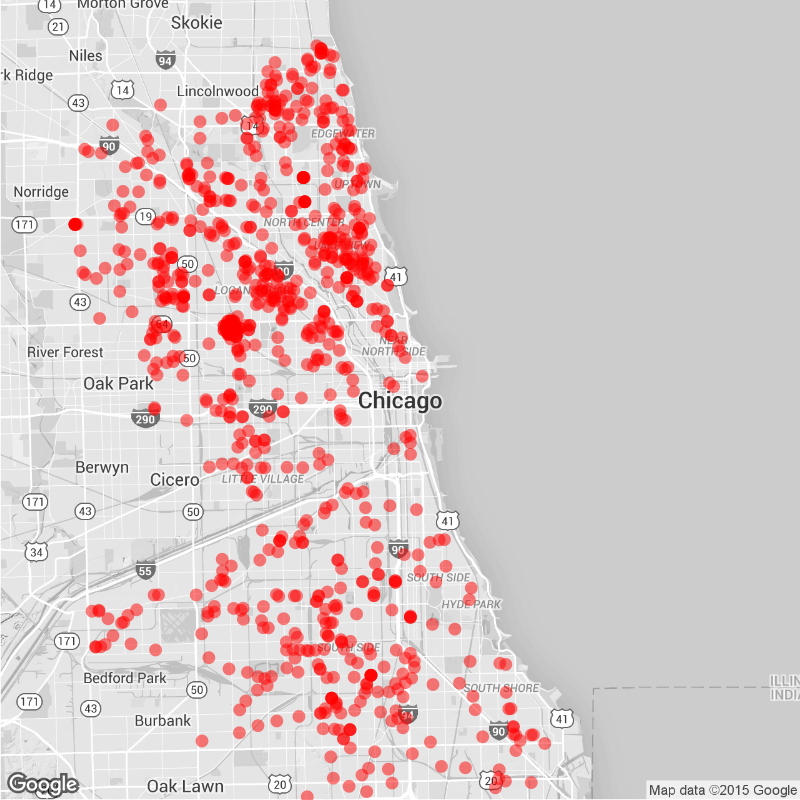
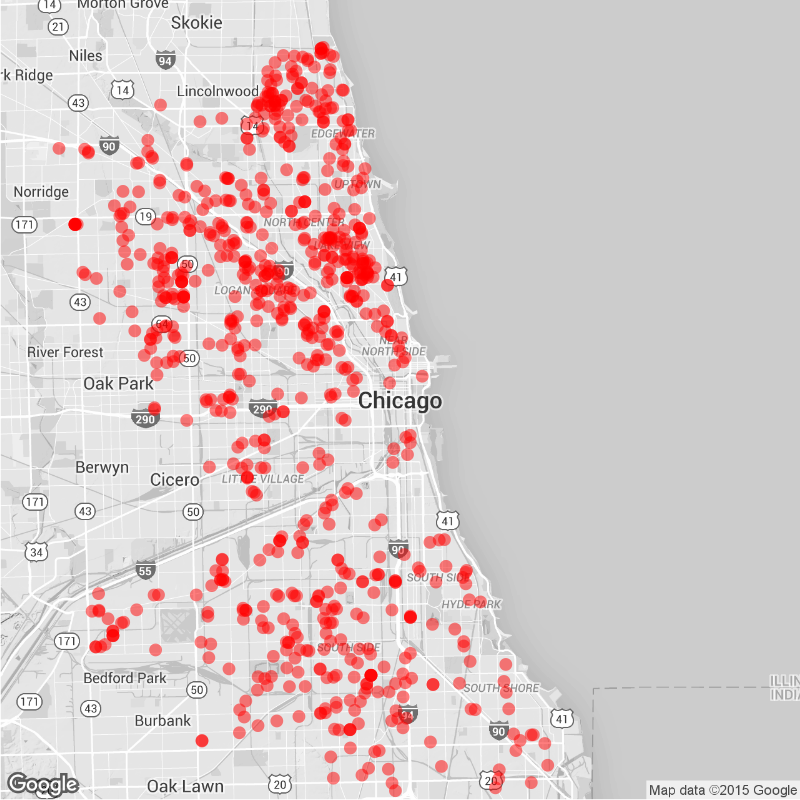
Daily Maps

diff --git a/daily.md b/daily.md
@@ -15,22 +15,22 @@ tags: Chicago NYC weekly daily rats
 
 ### Daily
 
-Yesterday (October 20), there were 152 calls to Chicago's 311 line about rats.
+Yesterday (October 21), there were 158 calls to Chicago's 311 line about rats.
 ![Chicago rat calls to 311 weekly map]({{ site.cityimages }}/daily/Chicago_Rat_Map_Daily.png)
 
 ### Weekly
-Between October 14 and October 20, there were 932 calls to Chicago's 311 line about rats. The average number of weekly calls for this time of year is 580.
+Between October 15 and October 21, there were 820 calls to Chicago's 311 line about rats. The average number of weekly calls for this time of year is 580.
 ![Chicago rat calls to 311 weekly map]({{ site.cityimages }}/daily/Chicago_Rat_Map_Weekly.png)
 ***
 # New York City <a id="nyc"><a>
 
 ### Daily
 
-Yesterday (October 20), there were 0 calls to New York City's 311 line about rats.
+Yesterday (October 21), there were 0 calls to New York City's 311 line about rats.
 ![NYC rat calls to 311 weekly map]({{ site.cityimages }}/daily/NYC_Rat_Map_Daily.png)
 
 ### Weekly
-Between October 14 and October 20, there were 0 calls to New York City's 311 line about rats. The average number of weekly calls for this time of year is 198.
+Between October 15 and October 21, there were 0 calls to New York City's 311 line about rats. The average number of weekly calls for this time of year is 198.
 ![NYC rat calls to 311 weekly map]({{ site.cityimages }}/daily/NYC_Rat_Map_Weekly.png)
 
 Each red dot represents one call about a rat seen in that location. The dots are transparent, so multiple calls from one location will be seen as a solid dot. The usual caveats apply: more calls do not necessarily mean that there are more rats in that location than other parts of the city. A cluster of dots could indicate that one resident is unusually vocal about rodents in his or her neighborhood. Also, more densely populated neighborhoods tend to make more calls to 311.
